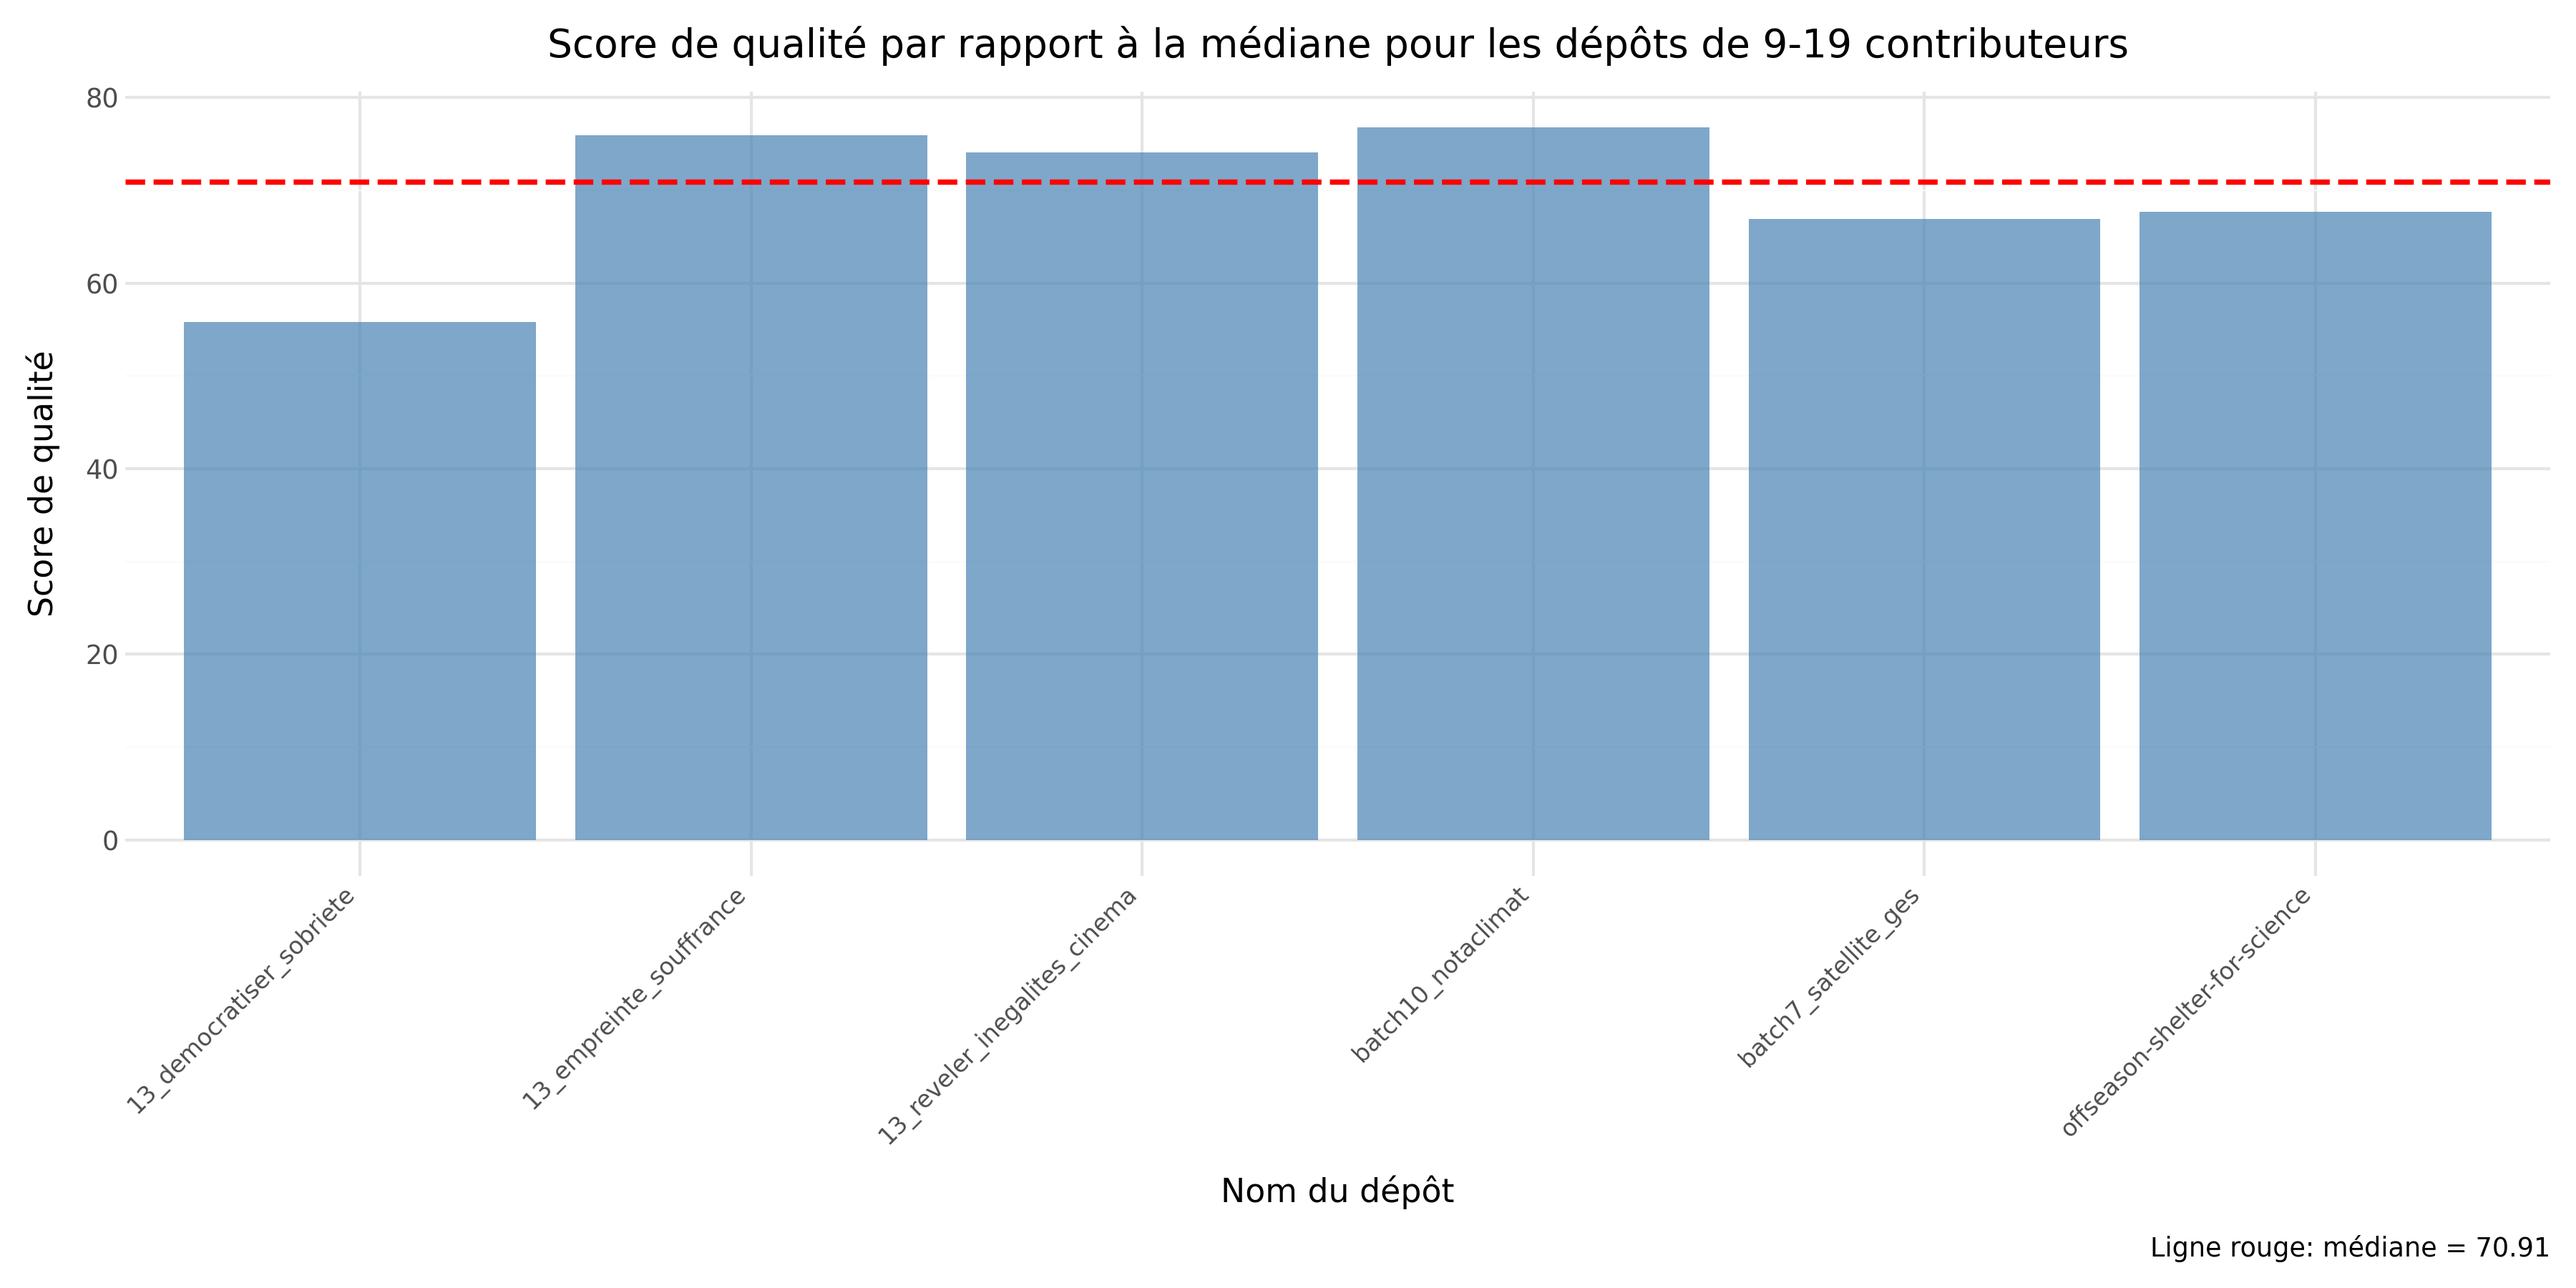
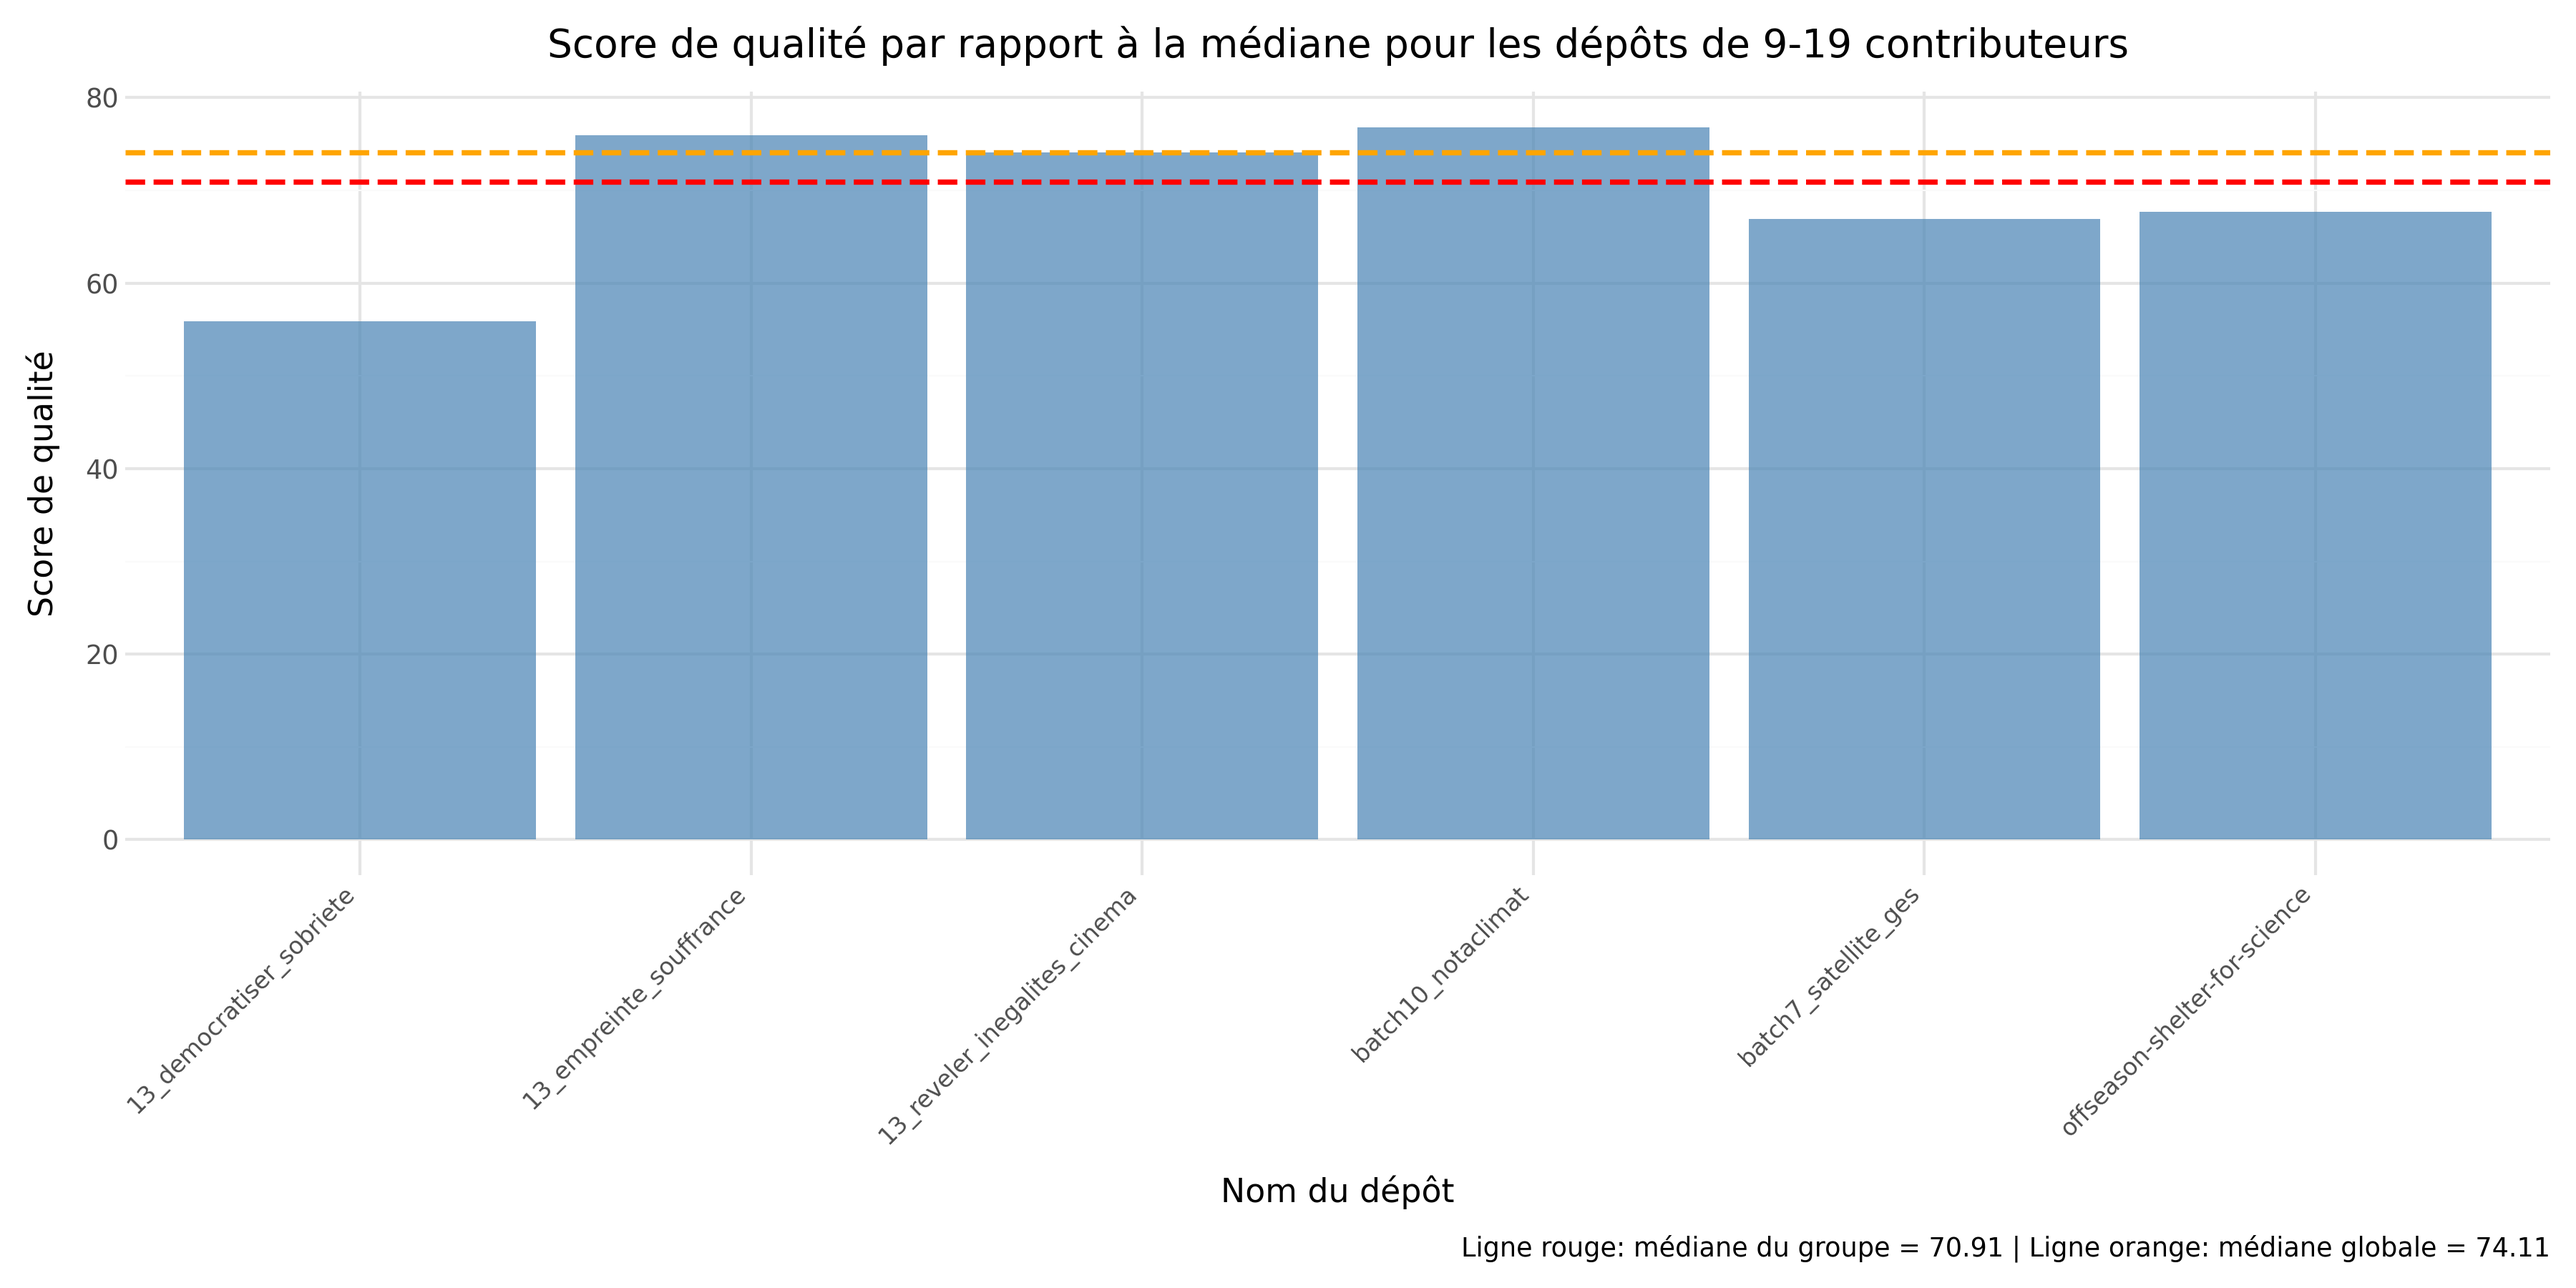
feat: add global median calculation and update graph

Changed region(s): [[0.0622, 0.0933, 0.9644, 0.1244], [0.56, 0.9644, 0.7467, 0.9956], [0.7778, 0.9644, 0.9333, 0.9956]]

diff --git a/2-nombre-contributeurs/generate_quality_graphs.py b/2-nombre-contributeurs/generate_quality_graphs.py
@@ -40,6 +40,9 @@ groups = [
 
 print(f"Analyse de {len(df)} repos")
 
+global_median = df["score"].median()
+print(f"Médiane globale: {global_median:.2f}\n")
+
 for group_num, group_label in groups:
     df_group = df[df["repo_group"] == group_num].copy()
     
@@ -55,6 +58,7 @@ for group_num, group_label in groups:
         ggplot(df_group, aes(x="repo_name", y="score"))
         + geom_bar(stat="identity", fill="steelblue", alpha=0.7)
         + geom_hline(yintercept=median_score, color="red", linetype="dashed", size=1)
+        + geom_hline(yintercept=global_median, color="orange", linetype="dashed", size=1)
         + theme_minimal()
         + theme(
             axis_text_x=element_text(rotation=45, hjust=1, size=8),
@@ -64,7 +68,7 @@ for group_num, group_label in groups:
             title=f"Score de qualité par rapport à la médiane pour les dépôts de {group_label.split('(')[1].split(')')[0]}",
             x="Nom du dépôt",
             y="Score de qualité",
-            caption=f"Ligne rouge: médiane = {median_score:.2f}"
+            caption=f"Ligne rouge: médiane du groupe = {median_score:.2f} | Ligne orange: médiane globale = {global_median:.2f}"
         )
     )
     
